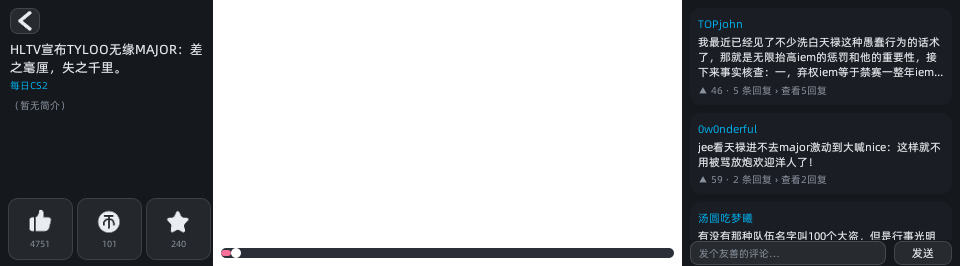
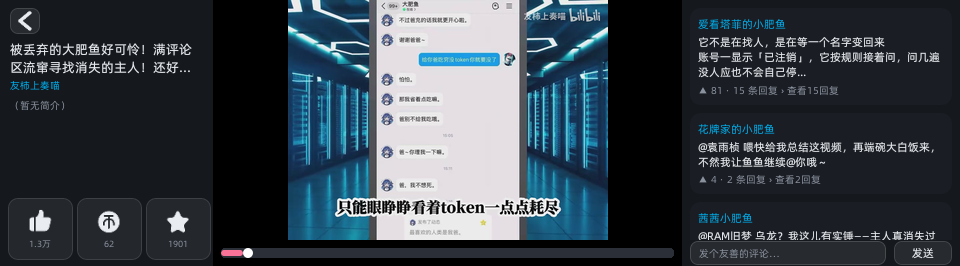
docs: 播放页截图合成真实视频帧
miniapp_cli capture 只能抓 Falcon 画布层，视频走 DRM/KMS 硬件平面，画布截图里
视频区必然是黑的。为了让 README 能看出播放页真实效果，用 kmssrc 单独抓平面帧，
按 debugfs 的 Esmart1-win0 dst 几何贴回画布。

两个坑：
- 必须在暂停后抓，播放态抓到的是解码器正在写的缓冲区，全是撕裂斜纹；
- 平面帧是面板原生朝向，要 rotate(-90) 才是观众看到的方向。

diff --git a/README.md b/README.md
@@ -21,7 +21,7 @@
 
 ## 截图
 
-全部为 X6 Pro 真机 `miniapp_cli capture` 采集，960×266。
+全部为 X6 Pro 真机采集，960×266。
 
 **推荐流**
 
@@ -47,7 +47,11 @@
 
 ![我的](docs/screenshots/x6-mine.png)
 
-> 截图只含 Falcon 画布层。视频是走 DRM/KMS 硬件平面直出的，不在画布里，所以播放页截图里视频区是黑的——这不是 bug。
+> 除播放页外，其余都是 `miniapp_cli capture` 原样抓的 Falcon 画布层。视频走 DRM/KMS
+> 硬件平面直出，不在画布里，所以画布截图里视频区是黑的——不是 bug。播放页那张为了
+> 展示真实效果，用 `kmssrc` 单独抓了平面帧，按平面几何（`/sys/kernel/debug/dri/0/summary`
+> 里的 `Esmart1-win0` dst）贴回画布。抓帧必须在暂停后做，否则拿到的是解码器正在写的
+> 缓冲区，全是撕裂条。
 
 ---
 
